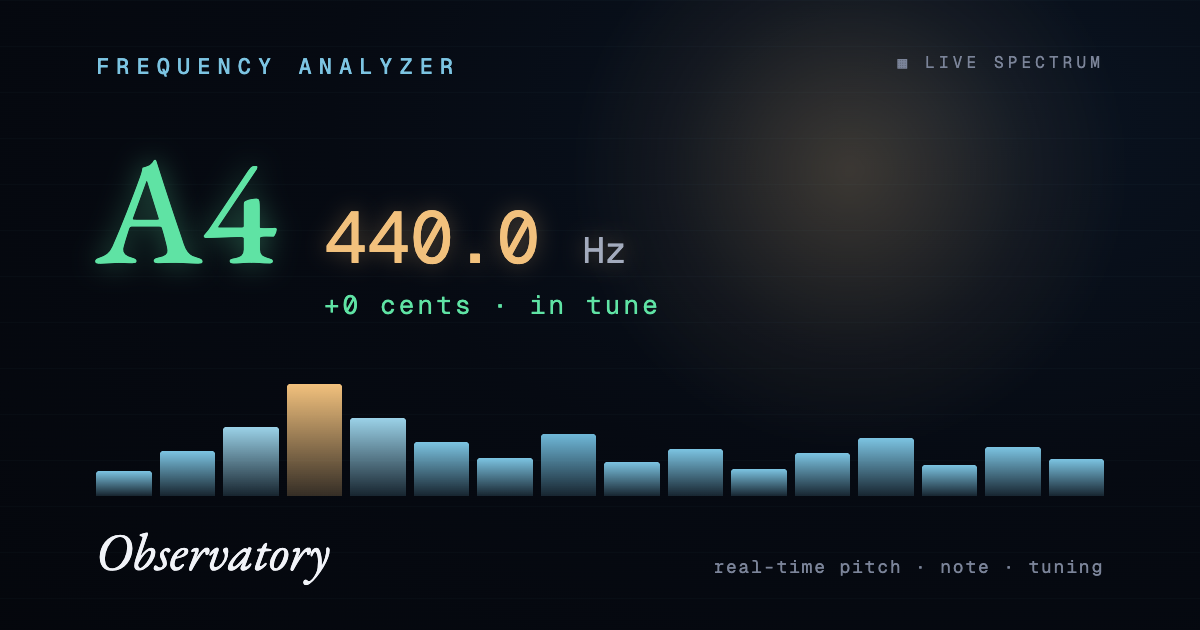
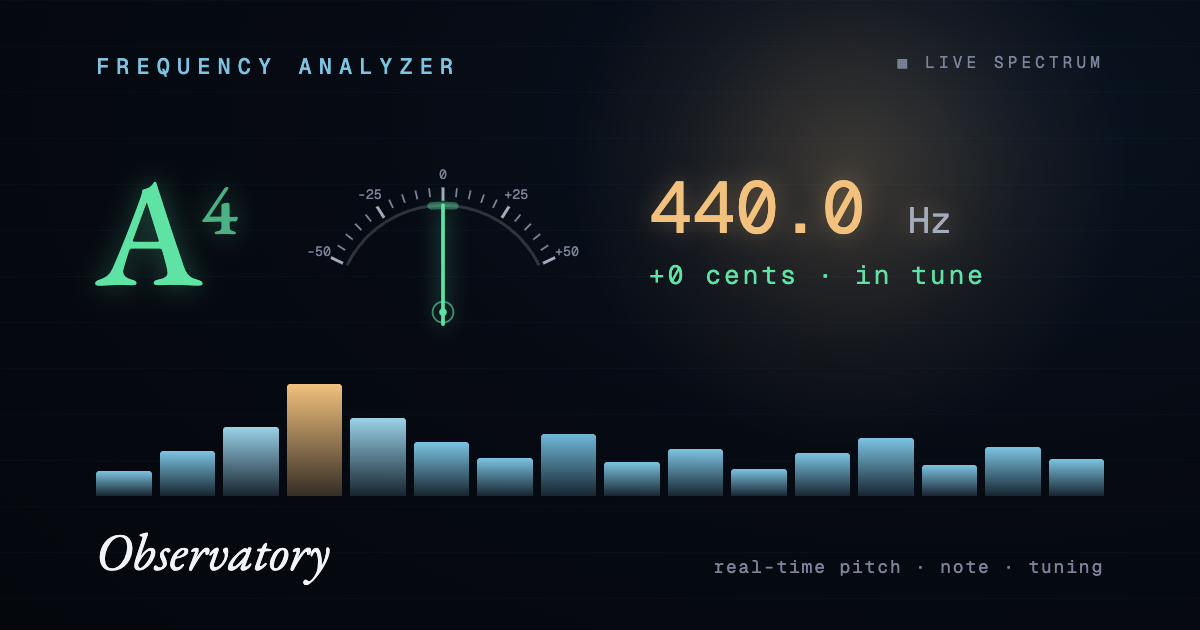
Polish intro, refresh OGP image, finalize spec
- Start-button ring pulse period now matches the 3D core idle breath
  (~3.93s) for visual continuity between overlay and scene
- Permanent privacy line on the intro: audio is analysed on-device
- Denied state: button relabels to "Try again", error copy nudges retry
- statusText gets aria-live="polite" for screen readers
- og-source.html gains the new precision gauge (ticks, numerals, in-tune
  window, counterweight needle via a small script mirroring buildTicks)
  and A-superscript-4 note styling; og.png regenerated per spec 2.4
- Spec: intro/OGP/accessibility sections updated; project marked as
  all 7 elevation phases complete

diff --git a/assets/og-source.html b/assets/og-source.html
@@ -44,8 +44,19 @@
   .serif { font-family: 'EB Garamond', serif; }
   .brand { color: #7cc4e2; letter-spacing: 0.32em; font-size: 22px; font-weight: 500; text-transform: uppercase; }
   .tag { color: #7b8499; letter-spacing: 0.26em; font-size: 16px; text-transform: uppercase; }
-  .reading { display: flex; align-items: baseline; gap: 48px; }
+  .reading { display: flex; align-items: center; gap: 56px; }
   .note { color: #5fe3a4; font-size: 150px; line-height: 0.9; font-weight: 500; text-shadow: 0 0 28px rgba(95,227,164,0.35); }
+  .note sup { font-size: 72px; color: rgba(95,227,164,0.75); }
+  .gauge { width: 300px; height: 190px; overflow: visible; }
+  .gauge .bg { fill: none; stroke: rgba(255,255,255,0.16); stroke-width: 2; }
+  .gauge .win { fill: none; stroke: rgba(95,227,164,0.4); stroke-width: 5; stroke-linecap: round; }
+  .gauge .arc { fill: none; stroke: #5fe3a4; stroke-width: 4; stroke-linecap: round; filter: drop-shadow(0 0 8px rgba(95,227,164,0.6)); }
+  .gauge .tick { stroke: #7b8499; stroke-width: 1.2; }
+  .gauge .tick.major { stroke: #a3abbd; stroke-width: 2; }
+  .gauge .num { font-family: 'Geist Mono', monospace; font-size: 9px; fill: #7b8499; }
+  .gauge .needle { stroke: #5fe3a4; stroke-width: 2.5; stroke-linecap: round; filter: drop-shadow(0 0 7px rgba(95,227,164,0.7)); }
+  .gauge .hub-ring { fill: none; stroke: #5fe3a4; stroke-width: 1.2; opacity: 0.6; }
+  .gauge .hub { fill: #5fe3a4; }
   .freq { color: #f2c17d; font-size: 72px; font-weight: 400; line-height: 1; text-shadow: 0 0 22px rgba(242,193,125,0.3); }
   .freq .unit { color: #a3abbd; font-size: 36px; }
   .cents { color: #5fe3a4; font-size: 26px; letter-spacing: 0.12em; margin-top: 14px; }
@@ -66,7 +77,15 @@
     </div>
 
     <div class="reading">
-      <div class="serif note">A4</div>
+      <div class="serif note">A<sup>4</sup></div>
+      <svg class="gauge" viewBox="0 0 200 128" id="ogGauge">
+        <path class="bg" id="gBg"></path>
+        <path class="win" id="gWin"></path>
+        <g id="gTicks"></g>
+        <line class="needle" x1="100" y1="126" x2="100" y2="46"></line>
+        <circle class="hub-ring" cx="100" cy="118" r="7"></circle>
+        <circle class="hub" cx="100" cy="118" r="2.6"></circle>
+      </svg>
       <div>
         <div class="mono freq">440.0 <span class="unit">Hz</span></div>
         <div class="mono cents">+0 cents &middot; in tune</div>
@@ -98,5 +117,21 @@
       </div>
     </div>
   </div>
+<script>
+  // mirrors buildTicks() in index.html — 5-cent minors, 25-cent majors + numerals
+  const CX=100,CY=118,MAXDEG=64,R_ARC=72,R_TICK=78,R_TICK2=84;
+  const pol=(deg,r)=>[CX+r*Math.sin(deg*Math.PI/180),CY-r*Math.cos(deg*Math.PI/180)];
+  const arc=(d1,d2,r)=>{const[a,b]=pol(d1,r),[c,d]=pol(d2,r);return `M ${a.toFixed(2)} ${b.toFixed(2)} A ${r} ${r} 0 ${Math.abs(d2-d1)>180?1:0} ${d2>d1?1:0} ${c.toFixed(2)} ${d.toFixed(2)}`;};
+  document.getElementById('gBg').setAttribute('d',arc(-MAXDEG,MAXDEG,R_ARC));
+  document.getElementById('gWin').setAttribute('d',arc(-6.4,6.4,R_ARC));
+  let s='';
+  for(let c=-50;c<=50;c+=5){
+    const deg=c/50*MAXDEG,major=c%25===0;
+    const[x1,y1]=pol(deg,major?R_TICK-3:R_TICK),[x2,y2]=pol(deg,R_TICK2);
+    s+=`<line class="tick${major?' major':''}" x1="${x1.toFixed(1)}" y1="${y1.toFixed(1)}" x2="${x2.toFixed(1)}" y2="${y2.toFixed(1)}"/>`;
+    if(major){const[nx,ny]=pol(deg,R_TICK2+9);s+=`<text class="num" x="${nx.toFixed(1)}" y="${(ny+3).toFixed(1)}" text-anchor="middle">${c>0?'+'+c:c}</text>`;}
+  }
+  document.getElementById('gTicks').innerHTML=s;
+</script>
 </body>
 </html>

diff --git a/index.html b/index.html
@@ -247,8 +247,9 @@
   }
   .start-btn:active{transform:scale(.99)}
   .start-btn:focus-visible{outline:2px solid var(--amber);outline-offset:4px}
-  .start-btn::before,.start-btn::after{content:"";position:absolute;inset:0;border-radius:50%;border:1px solid var(--amber);opacity:.5;animation:ring 2.6s ease-out infinite}
-  .start-btn::after{animation-delay:1.3s}
+  /* ring pulse period matches the 3D core idle breath (sin(t*1.6) -> ~3.93s) */
+  .start-btn::before,.start-btn::after{content:"";position:absolute;inset:0;border-radius:50%;border:1px solid var(--amber);opacity:.5;animation:ring 3.93s ease-out infinite}
+  .start-btn::after{animation-delay:1.96s}
   @keyframes ring{0%{transform:scale(1);opacity:.45}100%{transform:scale(1.6);opacity:0}}
   .start-btn .ico{width:26px;height:26px;color:var(--amber)}
   .start-btn .lbl{font-family:var(--font-mono);font-size:9px;letter-spacing:.24em;text-transform:uppercase;color:var(--text-dim)}
@@ -258,6 +259,7 @@
   .intro-note{margin-top:26px;font-family:var(--font-mono);font-size:10px;letter-spacing:.16em;text-transform:uppercase;color:var(--text-faint);
     opacity:0;animation:rise 1s .75s ease forwards}
   .intro-note.error{color:#e98f7a;letter-spacing:.06em;text-transform:none;font-size:12px}
+  .intro-note.privacy{margin-top:10px;animation-delay:.9s}
   @keyframes rise{from{opacity:0;transform:translateY(14px)}to{opacity:1;transform:none}}
 
   /* console reveal */
@@ -379,7 +381,7 @@
           <svg viewBox="0 0 24 24" fill="none" stroke="currentColor" stroke-width="2" stroke-linecap="round" stroke-linejoin="round"><path d="M12 2a3 3 0 0 0-3 3v7a3 3 0 0 0 6 0V5a3 3 0 0 0-3-3z"/><path d="M19 10v2a7 7 0 0 1-14 0v-2"/><line x1="12" y1="19" x2="12" y2="23"/></svg>
           <span id="listenLabel">Listen</span>
         </button>
-        <div class="status"><span class="dot" id="statusDot"></span><span id="statusText">Ready</span></div>
+        <div class="status"><span class="dot" id="statusDot"></span><span id="statusText" aria-live="polite">Ready</span></div>
       </div>
     </div>
   </div>
@@ -394,6 +396,7 @@
     <span class="lbl">Press to listen</span>
   </button>
   <div class="intro-note" id="introNote">Best with headphones · uses your microphone locally</div>
+  <div class="intro-note privacy">Audio is analysed on-device — nothing leaves your browser</div>
 </div>
 
 <script type="importmap">
@@ -687,6 +690,7 @@ let lastPitch=0;
 
 async function start(){
   const lbl=startBtn.querySelector('.lbl');
+  let denied=false;
   startBtn.classList.add('waiting');lbl.textContent='Waiting…';
   statusText.textContent='Requesting…';
   try{
@@ -707,12 +711,13 @@ async function start(){
     intro.classList.add('hidden');
     if(!reduceMotion){trans.t=0;trans.active=true;}
   }catch(e){
+    denied=true;
     introNote.classList.add('error');
-    introNote.textContent=e&&e.name==='NotAllowedError'?'Microphone access denied — enable it in your browser to continue.':'Could not access microphone.';
+    introNote.textContent=e&&e.name==='NotAllowedError'?'Microphone access denied — enable it in your browser, then try again.':'Could not access microphone.';
     statusText.textContent='Ready';
     console.error(e);
   }finally{
-    startBtn.classList.remove('waiting');lbl.textContent='Press to listen';
+    startBtn.classList.remove('waiting');lbl.textContent=denied?'Try again':'Press to listen';
   }
 }
 function stop(){

diff --git a/仕様書.md b/仕様書.md
@@ -3,7 +3,7 @@
 リアルタイム音響解析ツール「Frequency Analyzer（Observatory）」の仕様書。
 マイク入力から周波数・音名・チューニング（セント偏差）を解析し、シネマティックな3Dビジュアライザーで可視化する単一HTMLアプリ。
 
-- **最終更新:** 2026-07-03（ライトテーマ磨き — 専用バーパレット・フォグ/露出調整・WCAG AA再検証）
+- **最終更新:** 2026-07-03（UI/UX最高品質化 全7フェーズ完了 — イントロ仕上げ・OGP画像刷新・`aria-live` 追加）
 - **形式:** 単一HTMLファイル（ビルド不要）
 - **公開URL:** https://frequency-analyzer.vercel.app （Vercel・GitHub連携で自動デプロイ）
 
@@ -51,7 +51,9 @@
 
 ### 2.3 UI / インタラクション
 - **イントロオーバーレイ**: 初回は「Press to listen」。クリックでマイク許可を要求（ユーザージェスチャ要件を満たす）。段階的フェードイン演出。
-  - **許可待ち状態**: `getUserMedia` の応答待ちの間、ボタンが「Waiting…」＋アイコン明滅（ステータスは「Requesting…」）。許可/拒否どちらでも状態を復元。
+  - **許可待ち状態**: `getUserMedia` の応答待ちの間、ボタンが「Waiting…」＋アイコン明滅（ステータスは「Requesting…」）。許可/拒否どちらでも状態を復元。**拒否後はボタンが「Try again」**になりリトライを促す。
+  - 開始ボタンのリングパルスは3Dコアのアイドル呼吸（`sin(t*1.6)` ≈ 3.93秒周期）と同期。
+  - プライバシー文言「Audio is analysed on-device — nothing leaves your browser」を常設表示（信頼性の担保）。
   - 退場時はフェード＋8pxブラーで空間に溶けるように消える。
 - **開始シネマティック**（~1.6秒）: マイク許可成功時、カメラが後方（z+16, y+3）からイージング付きでドリーイン。ブルーム強度が 0.5→1.1→0.55 とスウェルし、パララックスは遷移中ブレンドイン。停止時は約0.6秒の露出ディップで静かに幕を引く。
 - **マイクロインタラクション**:
@@ -66,7 +68,7 @@
 ### 2.4 SNS共有（OGP / Twitter Card）
 - URL を LINE・X(Twitter)・Discord・Slack 等に貼ると、専用のプレビュー画像（`og.png`）が表示される。
 - `index.html` の `<head>` に Open Graph（`og:title` / `og:description` / `og:url` / `og:image` ＋ `1200×630`）と Twitter Card（`summary_large_image`）のメタタグを設定。`og:image` は絶対URL。
-- 画像はアプリの "Observatory" な世界観（ダーク背景・ブルーム・Amber×Cool×Mint・EB Garamond / Geist Mono）を表すブランド画像。測定結果ではなくサンプル表示（`A4 · 440.0 Hz · in tune`）＋スペクトラム装飾。
+- 画像はアプリの "Observatory" な世界観（ダーク背景・ブルーム・Amber×Cool×Mint・EB Garamond / Geist Mono）を表すブランド画像。測定結果ではなくサンプル表示（`A⁴ · 440.0 Hz · in tune`）＋**精密ゲージ**（5セント刻みティック・数字目盛り・イン・チューン窓・カウンターウェイト針、`index.html` の `buildTicks()` をミラーした小スクリプトで生成）＋スペクトラム装飾。
 - 画像ソースは `assets/og-source.html`（CSSのみで1200×630を再現、Three.js/Web Audio は不使用）。Chrome ヘッドレスでスクリーンショットして `og.png` を再生成する:
   ```bash
   "/Applications/Google Chrome.app/Contents/MacOS/Google Chrome" \
@@ -113,7 +115,7 @@
 - `composer` / キャンバスはリサイズ時に再構成。
 - 停止時に `MediaStream` / `AudioContext` を解放。
 - `prefers-reduced-motion` でグレイン・パララックス・各種アニメーションを無効化。
-- セマンティックなボタン、`aria-label`、`:focus-visible` リング対応。
+- セマンティックなボタン、`aria-label`、`:focus-visible` リング対応。ステータステキストは `aria-live="polite"`（状態変化をスクリーンリーダーに通知）。
 - **コントラスト（WCAG）**: 両テーマで AA 準拠を計算で再検証（2026-07-03）。主要数値・音名 ≈17:1、cents（text-dim）6.7:1、微小ラベルはダーク5.1:1・ライト5.4:1、amber数値はライトパネル上4.6:1、mint（In Tune、ライト `#0d764a`）5.4:1。**Listenボタンはライトで白文字**（amber地に黒は4.1:1でAA未達 → 白4.8:1に変更、ダークは黒12.0:1のまま）。半透明パネルは不透明度・縁・影を強化し3D背景から確実に分離。
 
 ---
